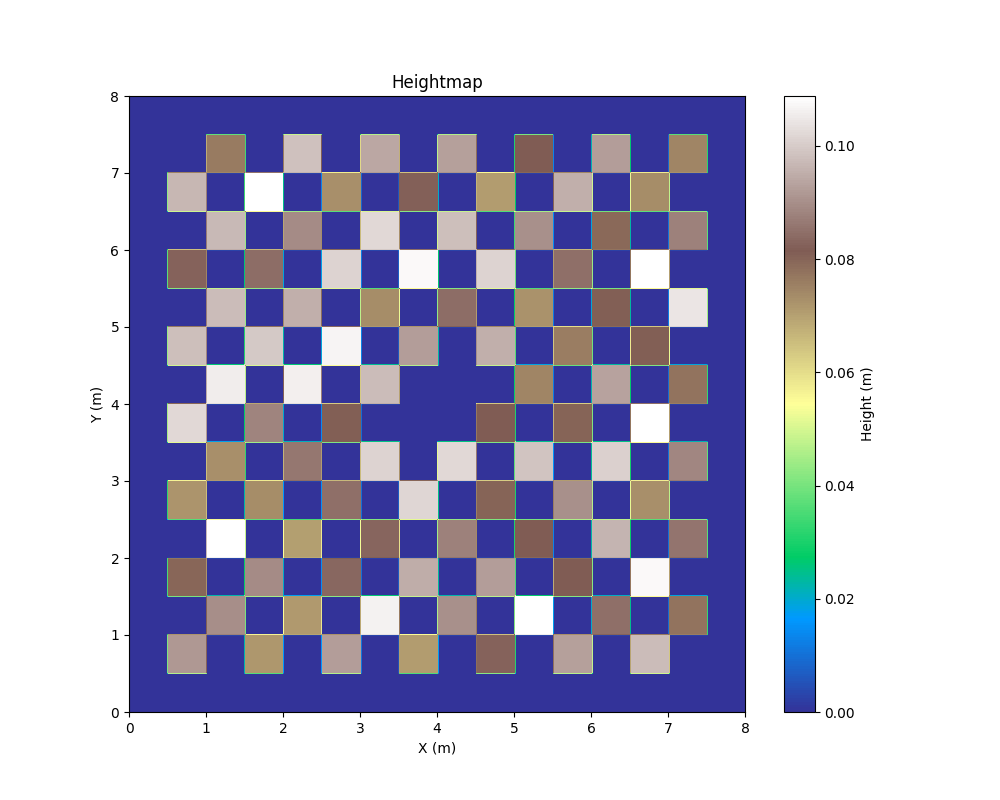
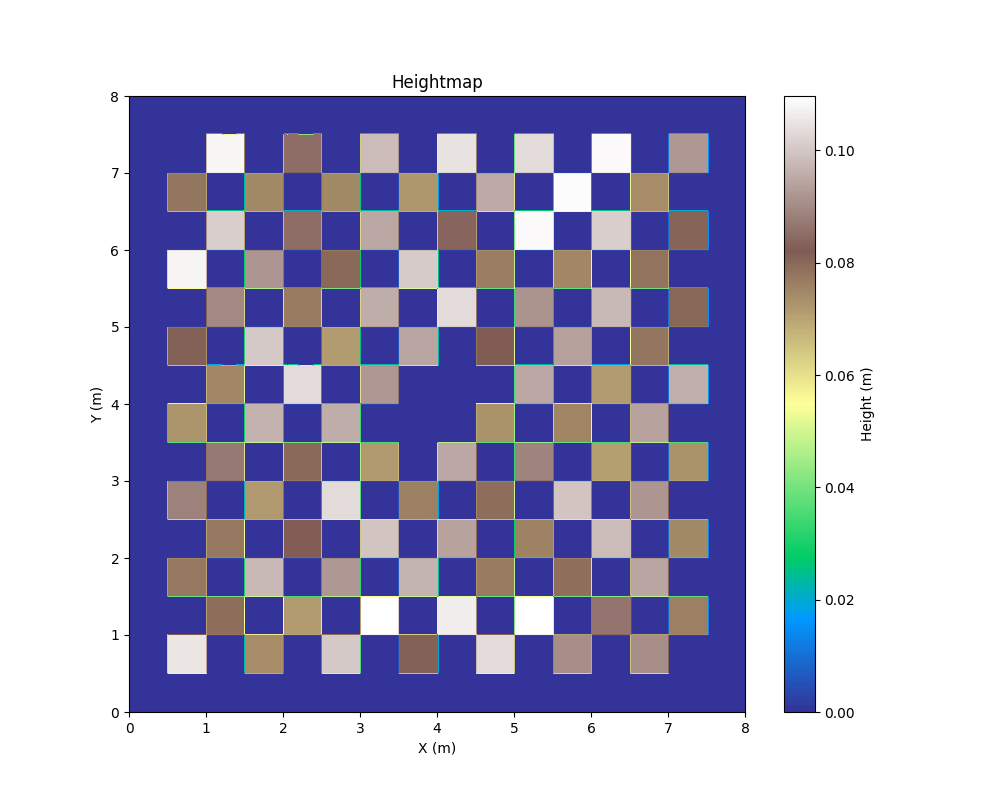
Add square centric obstacles terrain

diff --git a/generators/terrain_square_centric.py b/generators/terrain_square_centric.py
@@ -1,0 +1,72 @@
+import numpy as np
+import trimesh
+from .utils import (
+    create_square_plane,
+    create_square_wall,
+    create_square_plane_with_hole,
+)
+
+
+def create_square_obstacle(center, outer_size, inner_size, height, step_height):
+    mesh_inner = create_square_wall(
+        center, inner_size, height + step_height, -step_height
+    )
+    mesh_outer = create_square_wall(center, outer_size, height, step_height)
+    mesh_top = create_square_plane_with_hole(
+        center, outer_size, inner_size, height + step_height
+    )
+
+    return trimesh.util.concatenate([mesh_inner, mesh_top, mesh_outer])
+
+
+def generate_square_centric_terrain(
+    terrain_size=8.0,
+    step_width=0.3,
+    step_height=0.08,
+    step_spacing=0.7,
+    platform_size=1.0,
+):
+    """
+    Generate a mesh with square obstacles centered on the central platform.
+
+    Parameters:
+    - terrain_size (float): Size of the terrain.
+    - step_width (float): Width of each step.
+    - step_height (float): Height of each step.
+    - step_spacing (float): Spacing between the steps.
+    - platform_size (float): Size of the central platform.
+
+    Returns:
+    - trimesh.Trimesh: Mesh object representing the square centric terrain.
+    """
+    center = [terrain_size / 2.0, terrain_size / 2.0]
+    num_steps = int(((terrain_size - platform_size) / 2.0) / step_spacing)
+
+    meshes = []
+
+    # Central platform
+    meshes.append(create_square_plane(center, terrain_size, 0.0))
+
+    # Square obstacles
+    for i in range(num_steps):
+        inner_size = platform_size + 2 * step_spacing * i
+        outer_size = inner_size + step_width
+        meshes.append(
+            create_square_obstacle(center, outer_size, inner_size, 0.0, step_height)
+        )
+
+    return trimesh.util.concatenate(meshes)
+
+
+if __name__ == "__main__":
+    # Usage:
+    mesh = generate_square_centric_terrain()
+
+    # Display mesh with colormap along the Z axis
+    mesh.visual.vertex_colors = trimesh.visual.interpolate(
+        mesh.vertices[:, 2], color_map="viridis"
+    )
+    trimesh.Scene(mesh).show()
+
+    # Export mesh as .obj file
+    # mesh.export(file_obj='terrain.obj', file_type='obj')

diff --git a/generators/terrain_generators.py b/generators/terrain_generators.py
@@ -4,6 +4,7 @@ from generators.terrain_blocks import generate_block_terrain
 from generators.terrain_slope import generate_slope_terrain
 from generators.terrain_checkers import generate_checkers_terrain
 from generators.terrain_tilted_squares import generate_tilted_squares_terrain
+from generators.terrain_square_centric import generate_square_centric_terrain
 import numpy as np
 import trimesh
 
@@ -270,6 +271,37 @@ def tilted_squares(difficulty):
         info["block_height"] * difficulty,
         info["platform_size"],
         info["noise"] * difficulty,
+    )
+
+    return mesh, info
+
+
+def square_centric(difficulty):
+    """
+    Generates a 3D terrain mesh with centric square obstacles.
+
+    Parameters:
+    - difficulty (float): Difficulty scaling between 0 (easiest) and 1 (hardest).
+
+    Returns:
+    - A trimesh.Trimesh object representing the generated terrain mesh.
+    - A dict containing the parameters of the terrain generator.
+    """
+
+    info = {}
+    info["name"] = "square_centric"
+    info["terrain_size"] = 8.0
+    info["step_width"] = 0.6
+    info["step_height"] = 0.08
+    info["step_spacing"] = 0.7
+    info["platform_size"] = 1.0
+
+    mesh = generate_square_centric_terrain(
+        info["terrain_size"],
+        info["step_width"],
+        info["step_height"] * difficulty,
+        info["step_spacing"],
+        info["platform_size"],
     )
 
     return mesh, info

diff --git a/generate_preview_images.py b/generate_preview_images.py
@@ -8,6 +8,7 @@ from generators.terrain_blocks import generate_block_terrain
 from generators.terrain_slope import generate_slope_terrain
 from generators.terrain_checkers import generate_checkers_terrain
 from generators.terrain_tilted_squares import generate_tilted_squares_terrain
+from generators.terrain_square_centric import generate_square_centric_terrain
 
 print("-- Generating meshes --")
 meshs = []
@@ -18,6 +19,7 @@ meshs.append(generate_block_terrain())
 meshs.append(generate_slope_terrain())
 meshs.append(generate_checkers_terrain())
 meshs.append(generate_tilted_squares_terrain())
+meshs.append(generate_square_centric_terrain())
 
 print("-- Generating images and heightmaps --")
 for i, mesh in enumerate(tqdm(meshs)):

diff --git a/README.md b/README.md
@@ -39,3 +39,7 @@ The terrains are constrained to be at altitude 0 near the edges, and have a cent
   <img src="images/terrain7_3d.png" width=49% />
   <img src="images/terrain7_heightmap.png" width=49% />
 </p>
+<p float="middle">
+  <img src="images/terrain8_3d.png" width=49% />
+  <img src="images/terrain8_heightmap.png" width=49% />
+</p>
